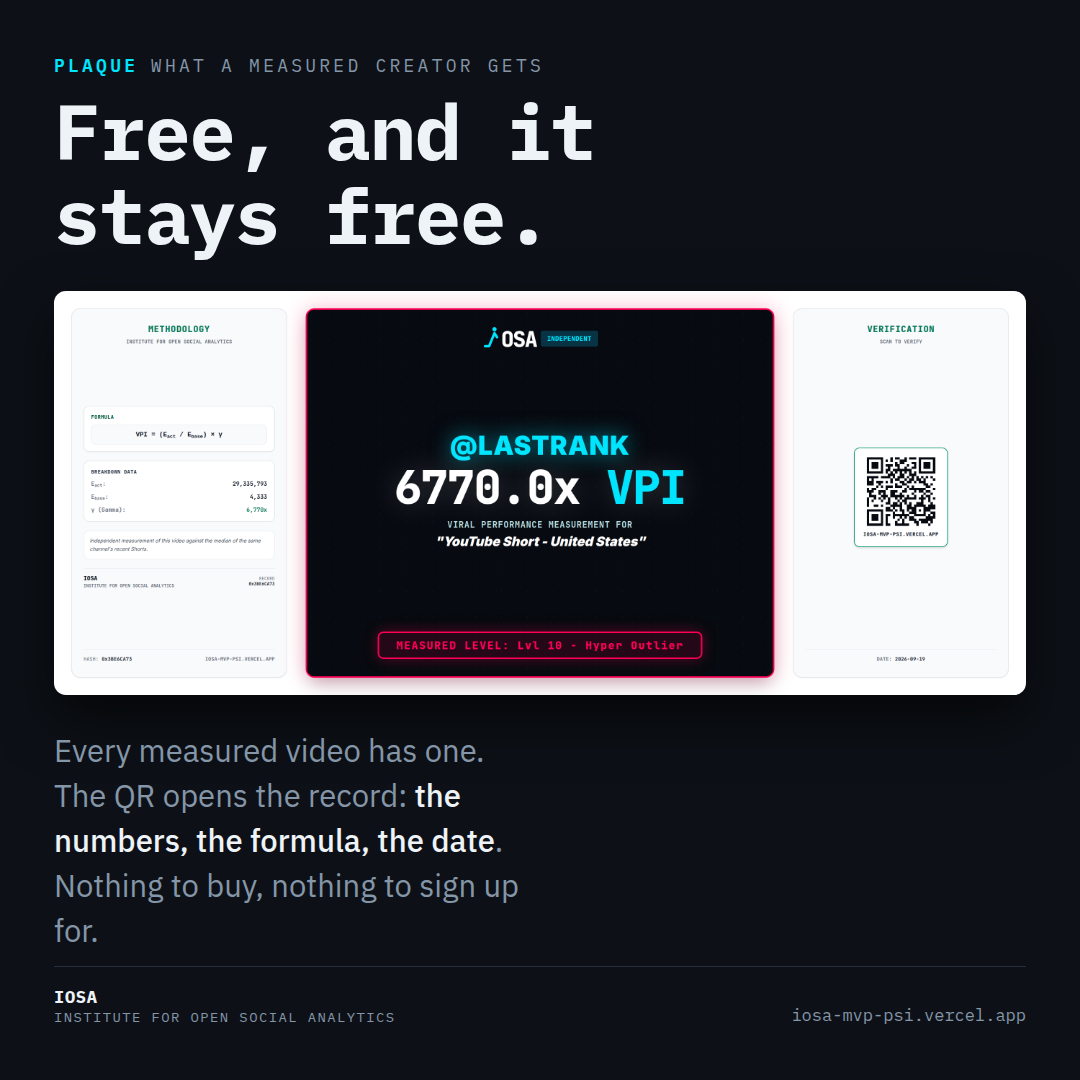
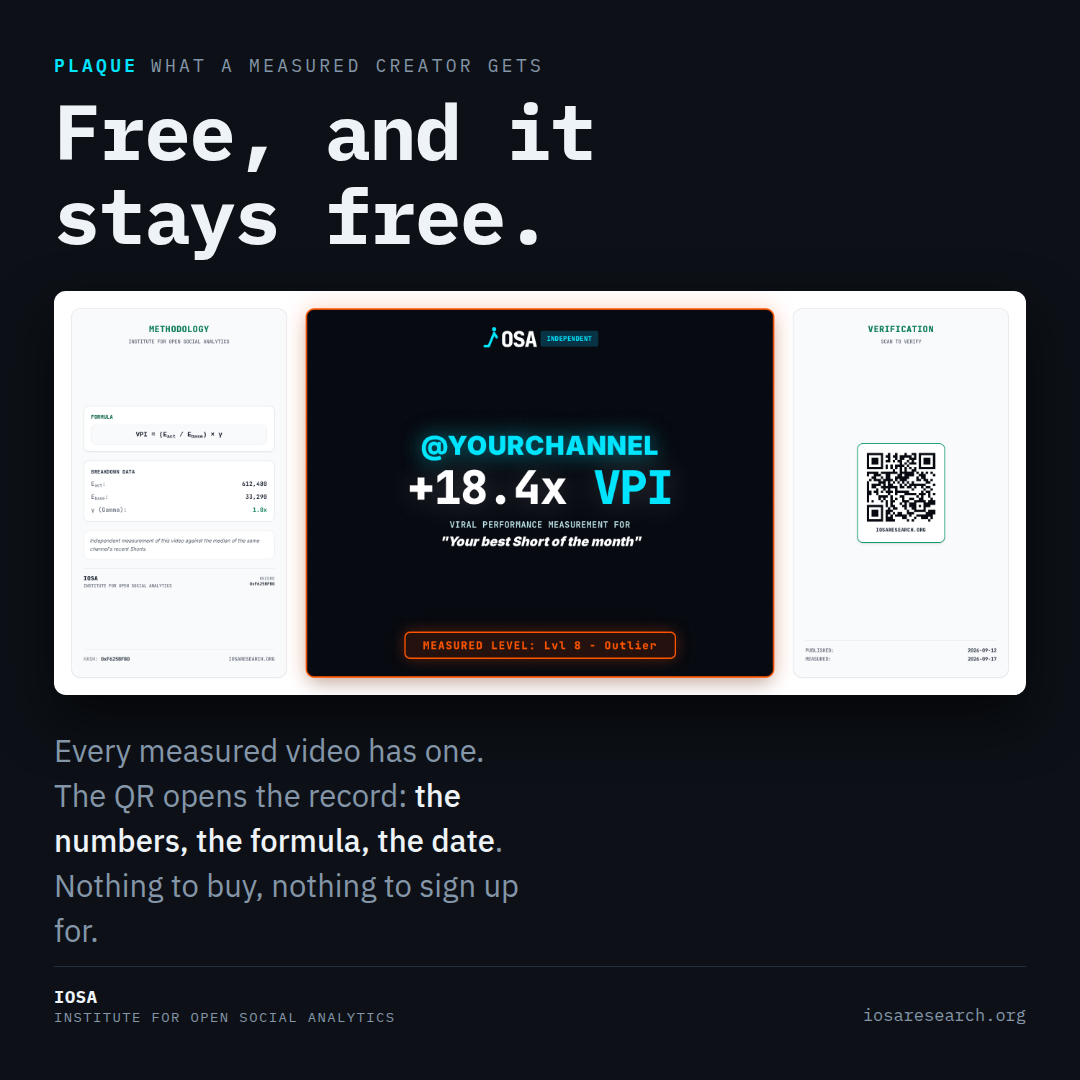
FIX le card pubblicate portavano il vecchio indirizzo e numeri di due giorni fa
Il sorgente era gia' stato corretto a iosaresearch.org il 20/09, ma nessuno
aveva rigenerato le PNG: le cinque immagini servite dal sito avevano ancora
iosa-mvp-psi.vercel.app stampato nel piede. La card 2 stava per uscire su
Instagram cosi' com'era.

Rigenerate tutte e cinque. I conteggi passano a soglie con il piu':
11.488 misurazioni diventa 15.000+, 9.703 canali diventa 11.000+, e i 1.686
canali piu' grandi che hanno fatto peggio di LastRank (oggi 7.905) diventano
7.900+. Un numero esatto invecchia ogni venti minuti e costringe a rifare
l'immagine; una soglia che puo' solo crescere resta vera.

La card 5 ora mostra la targa di esempio (@yourchannel) invece di quella di
un creator reale, come vale per tutto il materiale pubblico.

Claude-Session: https://claude.ai/code/session_011mrzjHPuPSsGcDCwWVgLnX

diff --git a/assets/social/iosa_cards.html b/assets/social/iosa_cards.html
@@ -177,7 +177,7 @@
       VPI = <span>views</span> ÷ <span>median views of that channel's recent Shorts</span><br>
       <em>Not raw views. Raw views only tell you the channel was already big.</em>
     </div>
-    <p><strong>11,488</strong> live measurements across <strong>34 markets</strong>, recomputed every 20 minutes.</p>
+    <p><strong>15,000+</strong> live measurements across <strong>34 markets</strong>, recomputed every 20 minutes.</p>
   </div>
   <footer>
     <div><span class="mark">IOSA</span><span class="sub">INSTITUTE FOR OPEN SOCIAL ANALYTICS</span></div>
@@ -197,7 +197,7 @@
       <div class="row"><span class="k">this video</span><span class="v">29,335,793</span></div>
       <div class="row hi"><span class="k">VPI — views ÷ channel baseline</span><span class="v">6,770×</span></div>
     </div>
-    <p><strong>1,686 channels more than three times its size</strong> scored below it. On a raw-views leaderboard this video never appears.</p>
+    <p><strong>7,900+ channels more than three times its size</strong> scored below it. On a raw-views leaderboard this video never appears.</p>
   </div>
   <footer>
     <div><span class="mark">IOSA</span><span class="sub">INSTITUTE FOR OPEN SOCIAL ANALYTICS</span></div>
@@ -210,7 +210,7 @@
   <div class="mid">
     <h1>We only claim what we can measure.</h1>
     <div class="status">
-      <div class="st"><span class="dot d-on"></span><span><span class="n">YouTube Shorts</span> <span class="s">— live, 9,703 channels</span></span></div>
+      <div class="st"><span class="dot d-on"></span><span><span class="n">YouTube Shorts</span> <span class="s">— live, 11,000+ channels</span></span></div>
       <div class="st"><span class="dot d-wait"></span><span><span class="n">TikTok</span> <span class="s">— research API application in review</span></span></div>
       <div class="st"><span class="dot d-off"></span><span><span class="n">Instagram Reels</span> <span class="s">— not covered: no public API returns another creator's recent media</span></span></div>
     </div>
